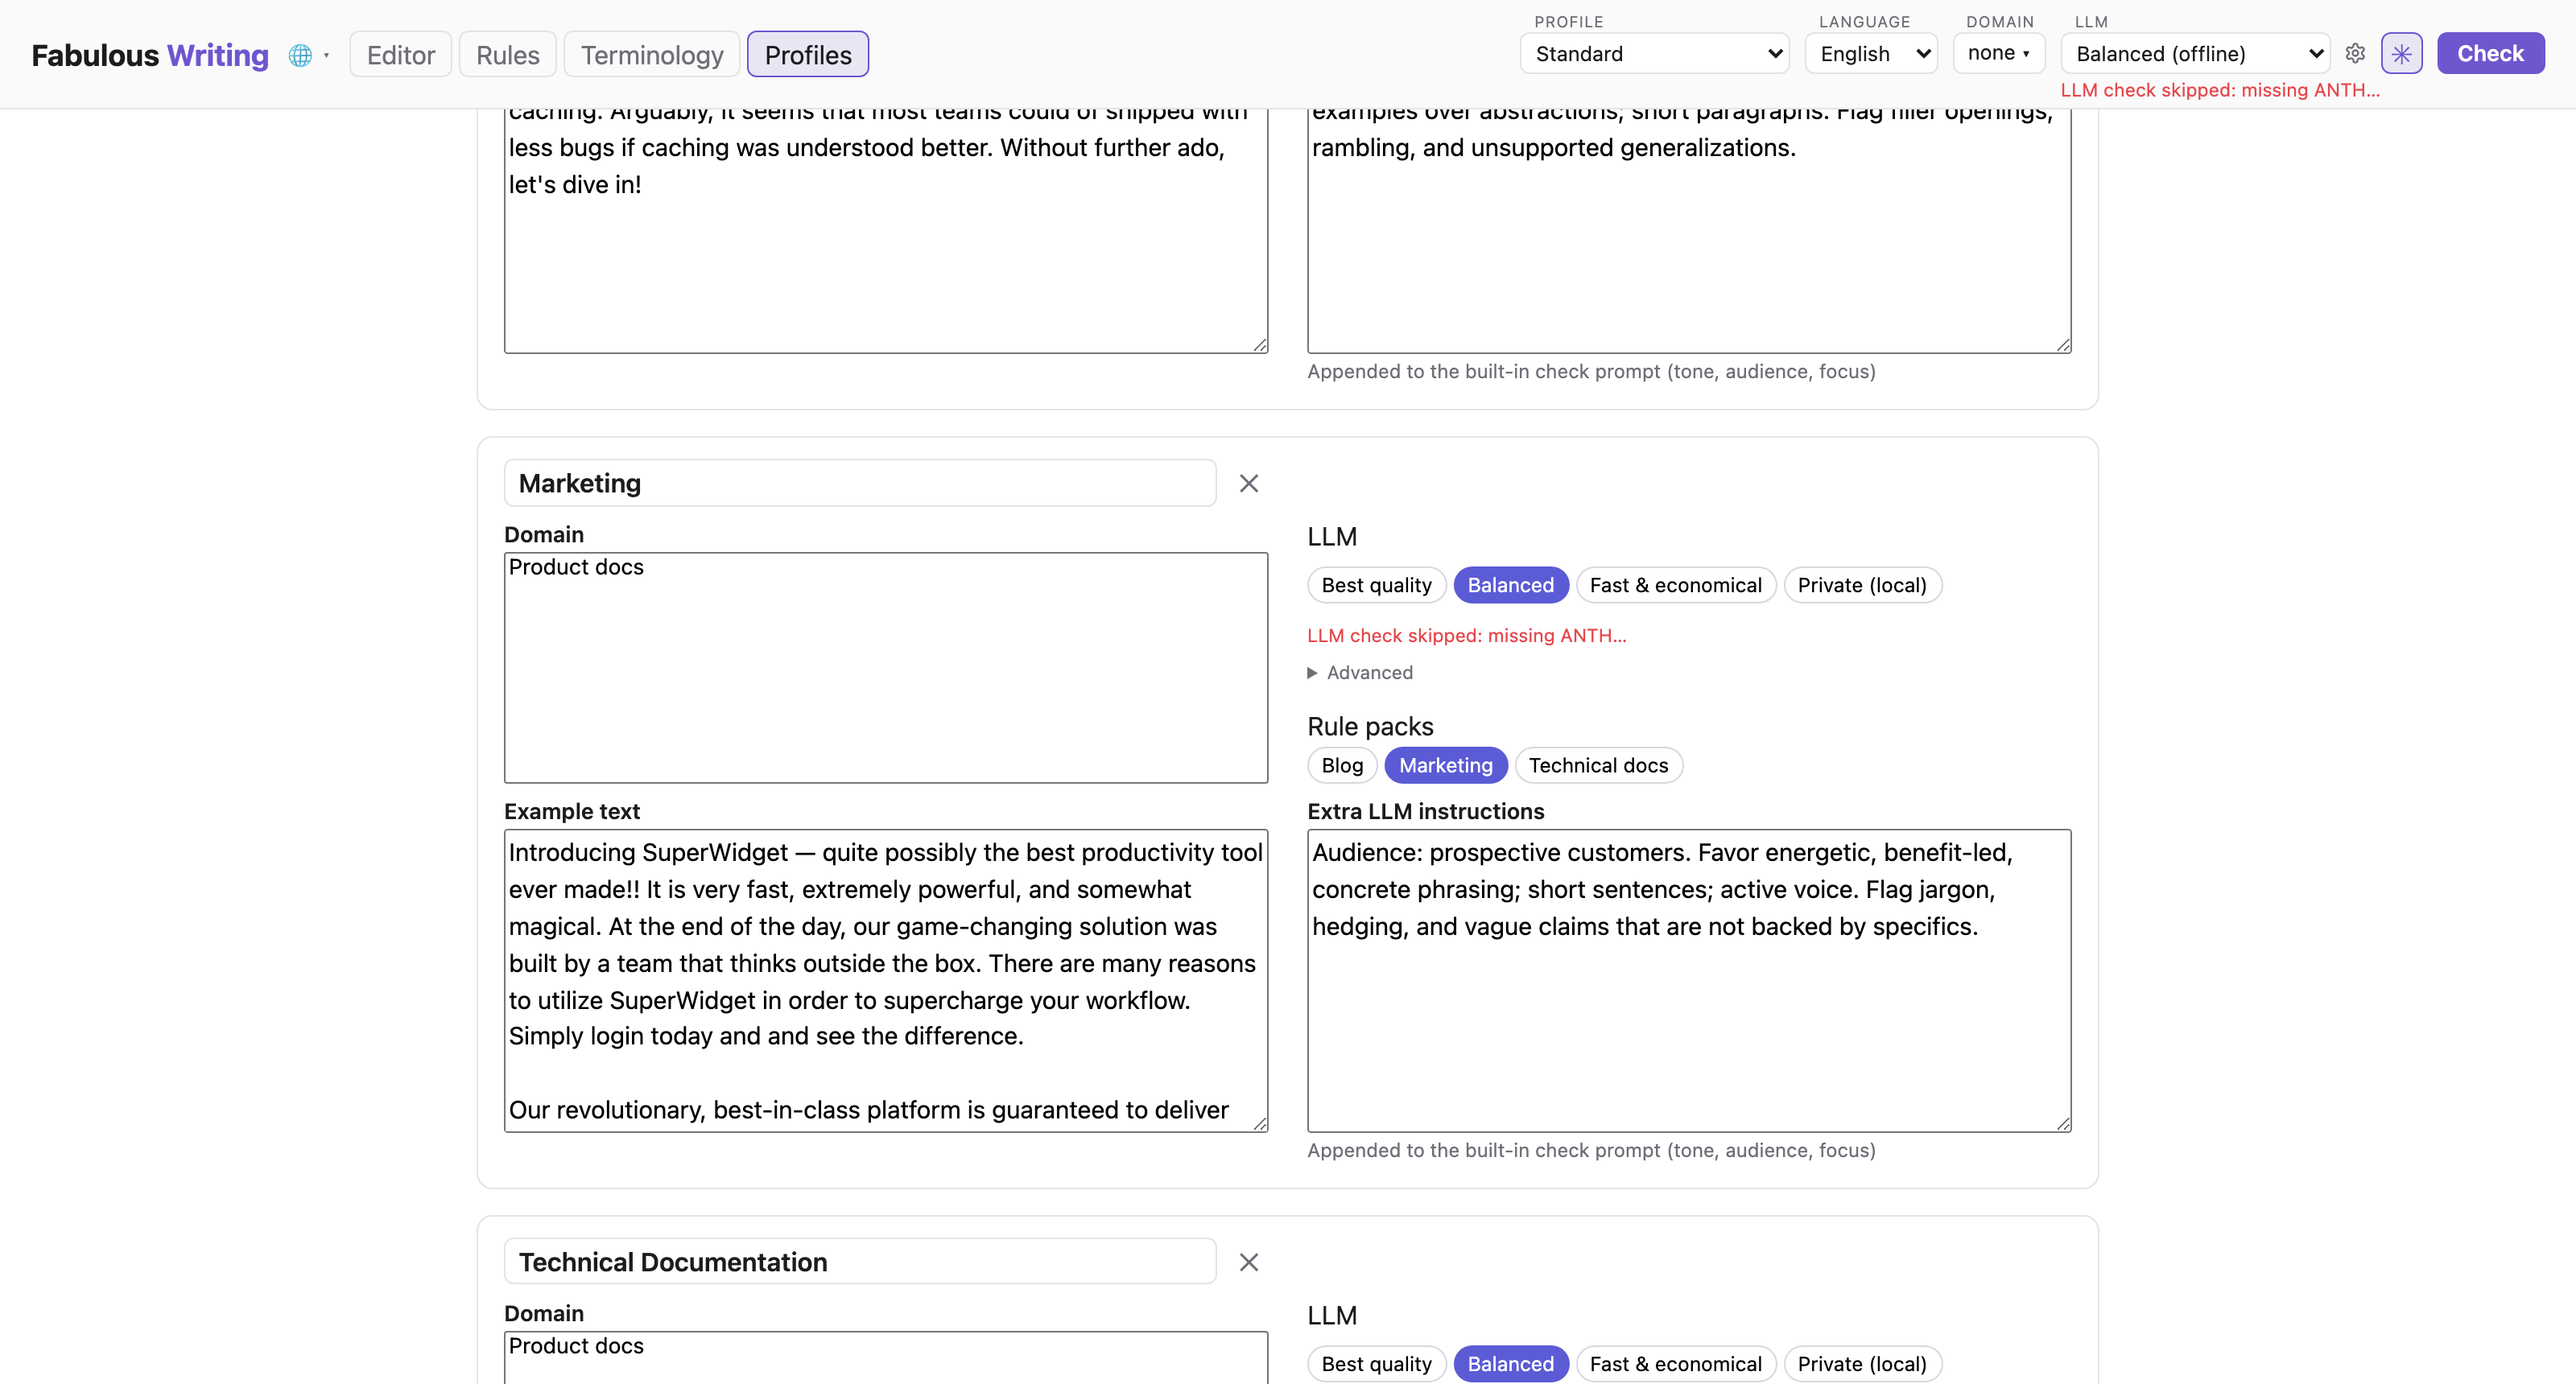
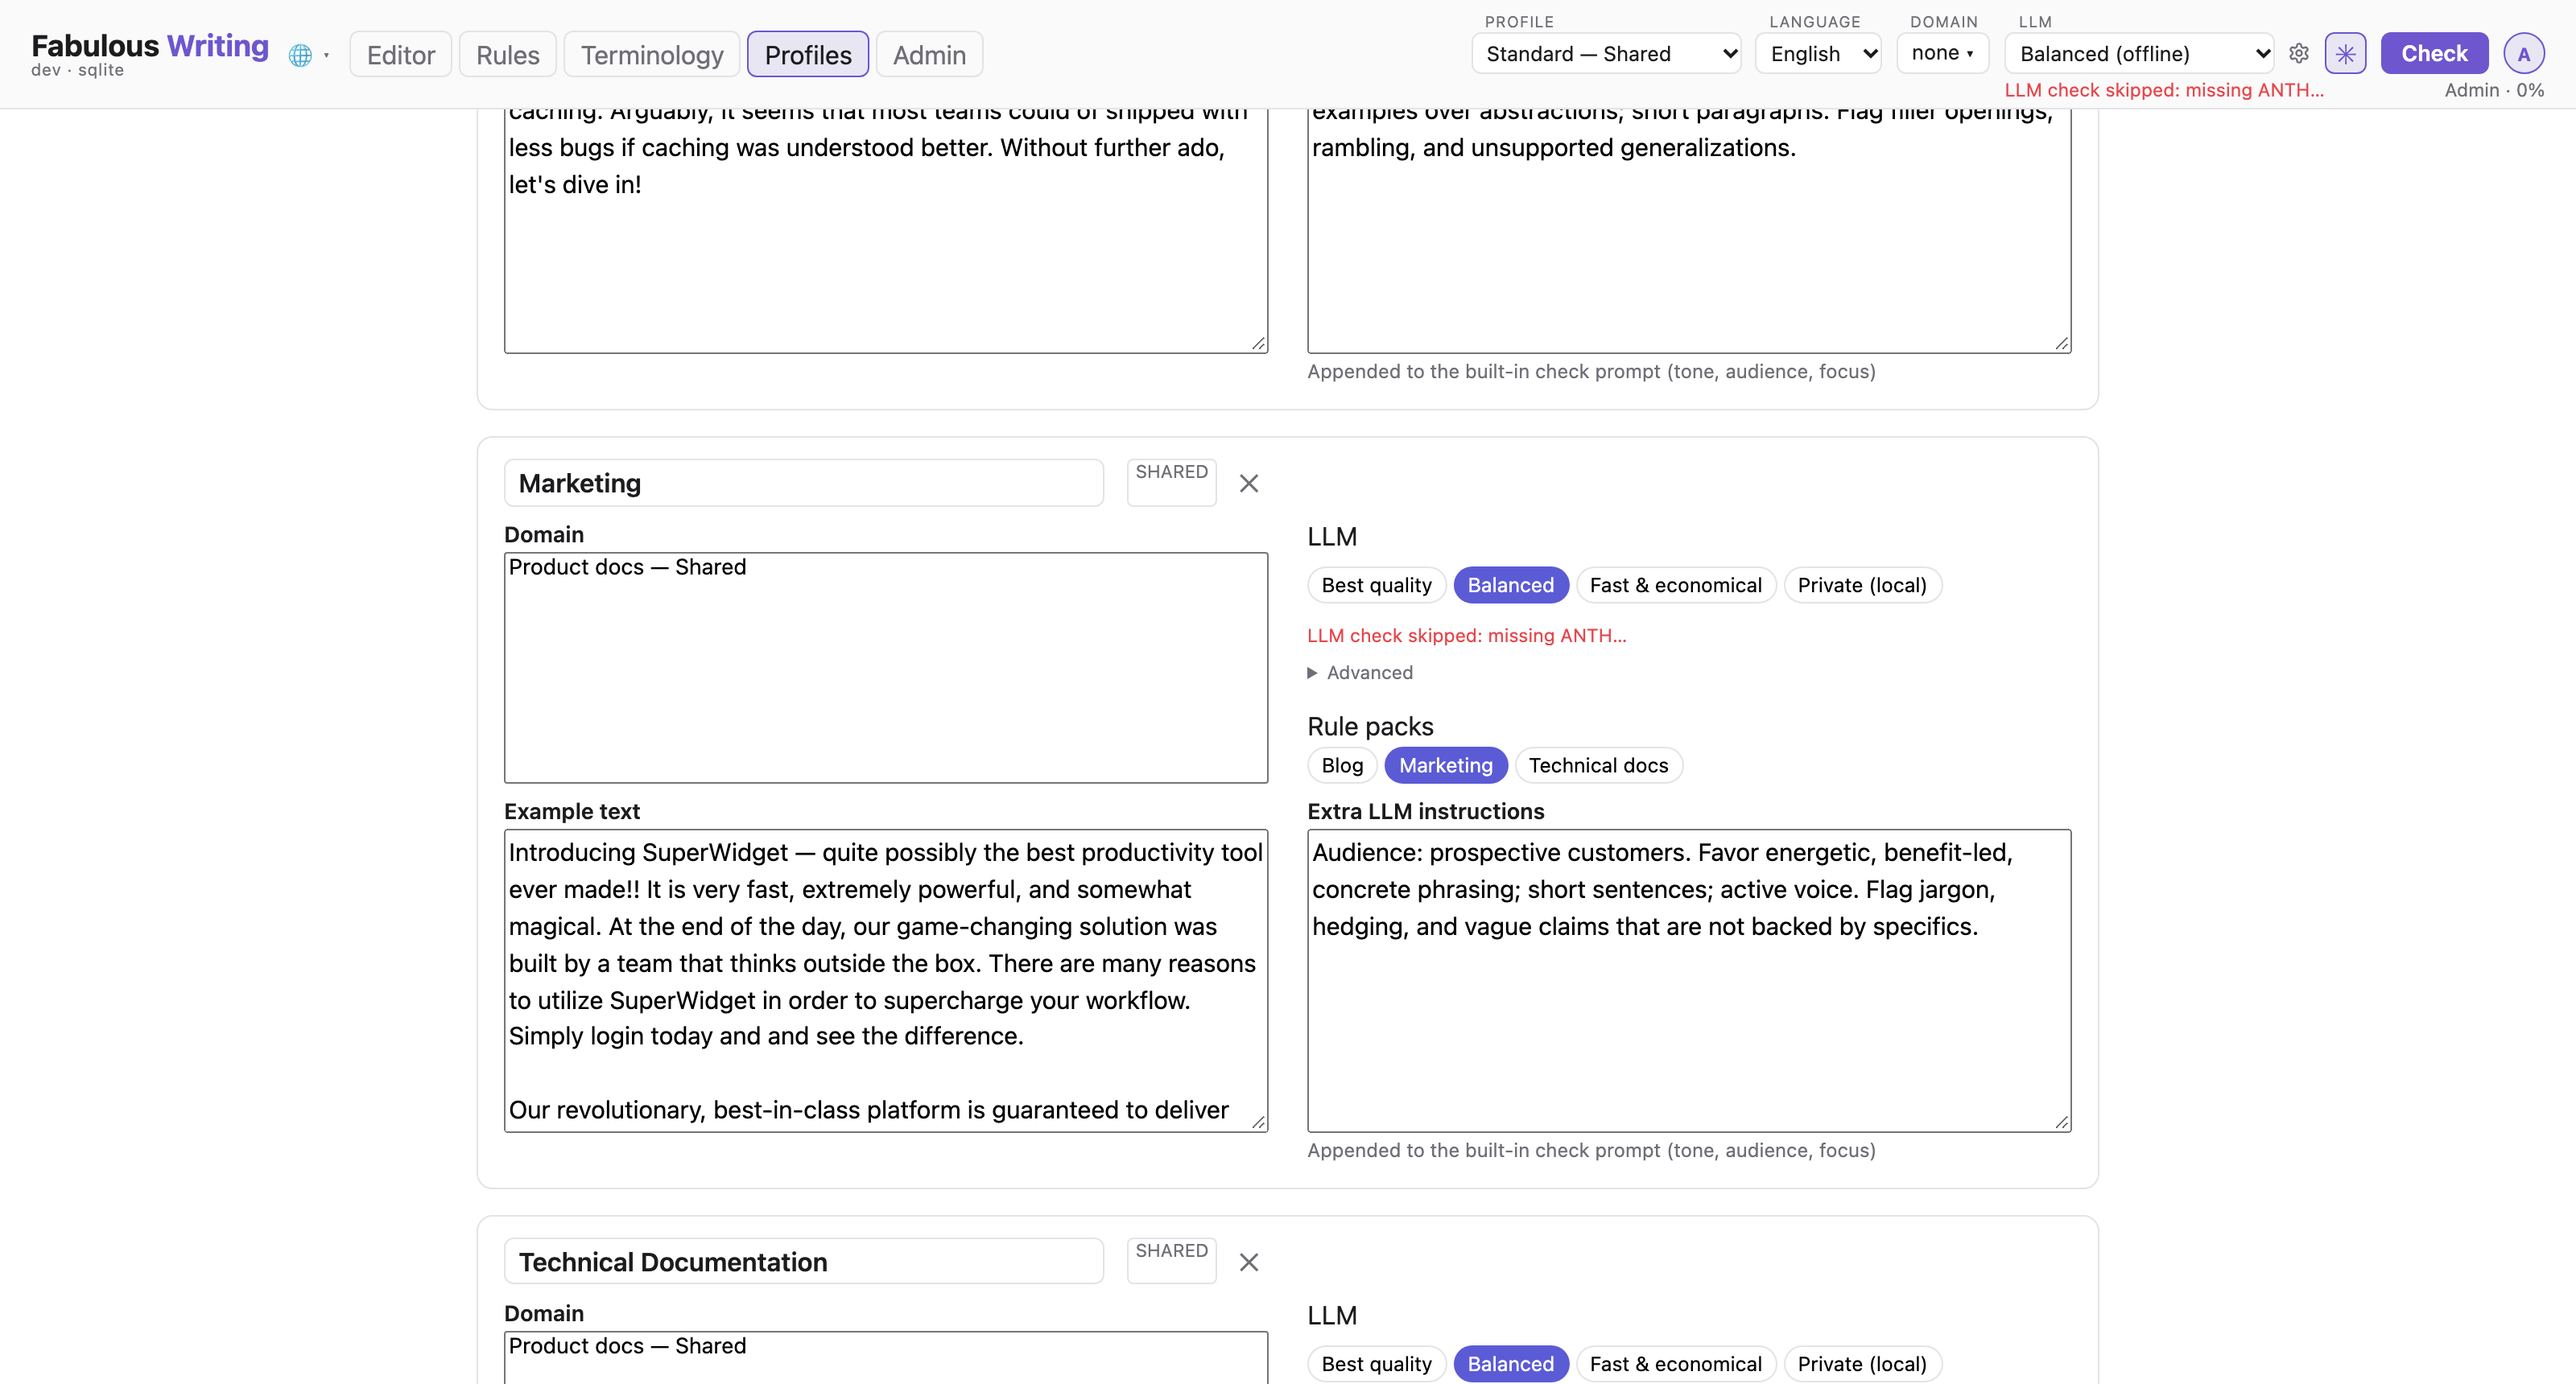
docs: screenshots and wording for the "Shared" badge

diff --git a/docs/frontend-architecture.md b/docs/frontend-architecture.md
@@ -887,7 +887,7 @@ and 403.
 **`TerminologyView.tsx`**: `isAdmin` comes from the store; each domain computes
 `editable = !domain.is_global || isAdmin`, which gates the rename (✎) and delete (✕)
 buttons and the double-click-to-rename handler — a non-admin simply has no way to
-reach a mutation on a global domain. A `<span class="global-badge" title="…">Built-in
+reach a mutation on a global domain. A `<span class="global-badge" title="…">Shared
 </span>` renders immediately after the domain name whenever `domain.is_global` is true
 (admin or not — the badge states a fact about the row, not a permission the current
 viewer lacks). `ConceptList` and `ConceptEntry` take the whole `Domain` plus a `readOnly`
